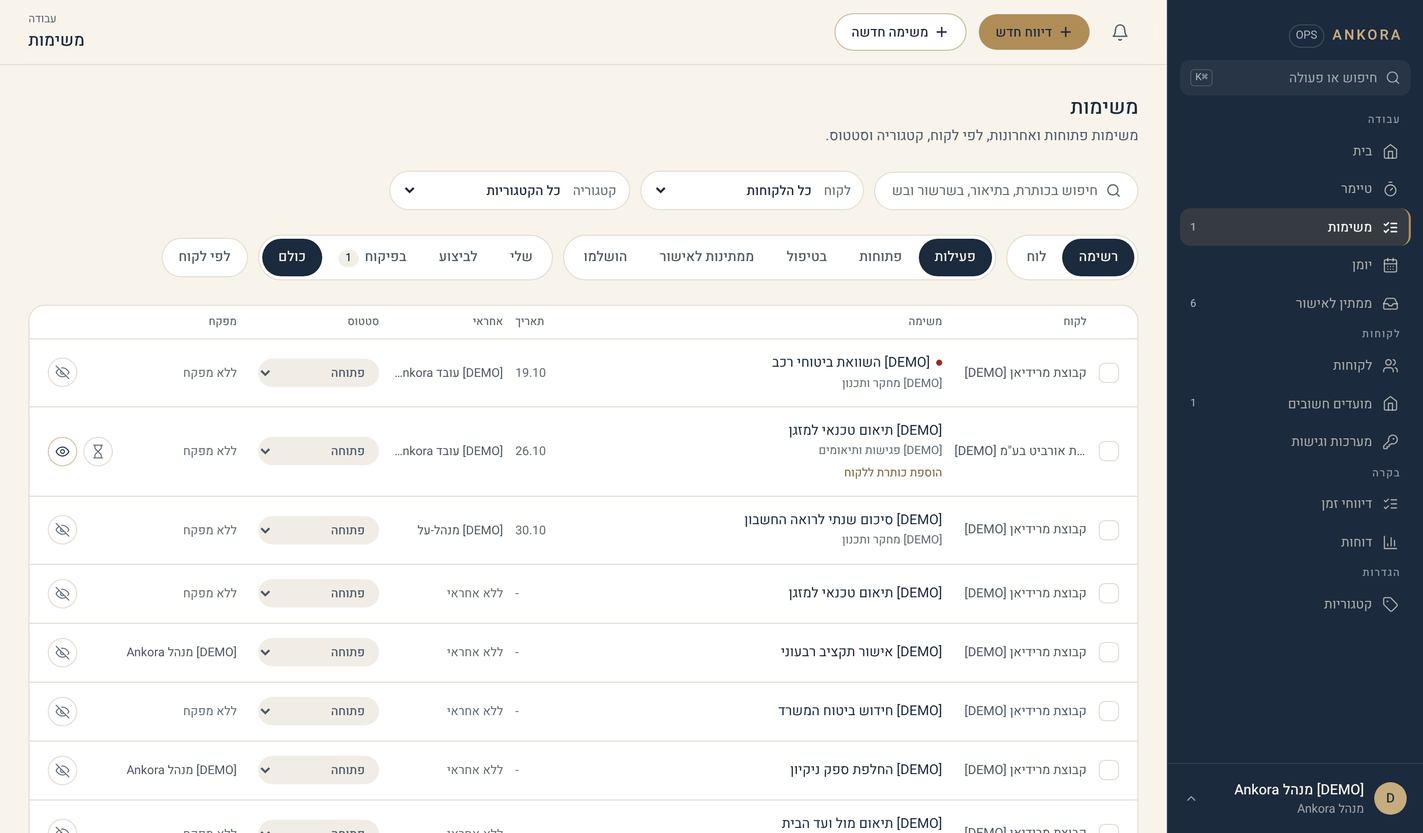
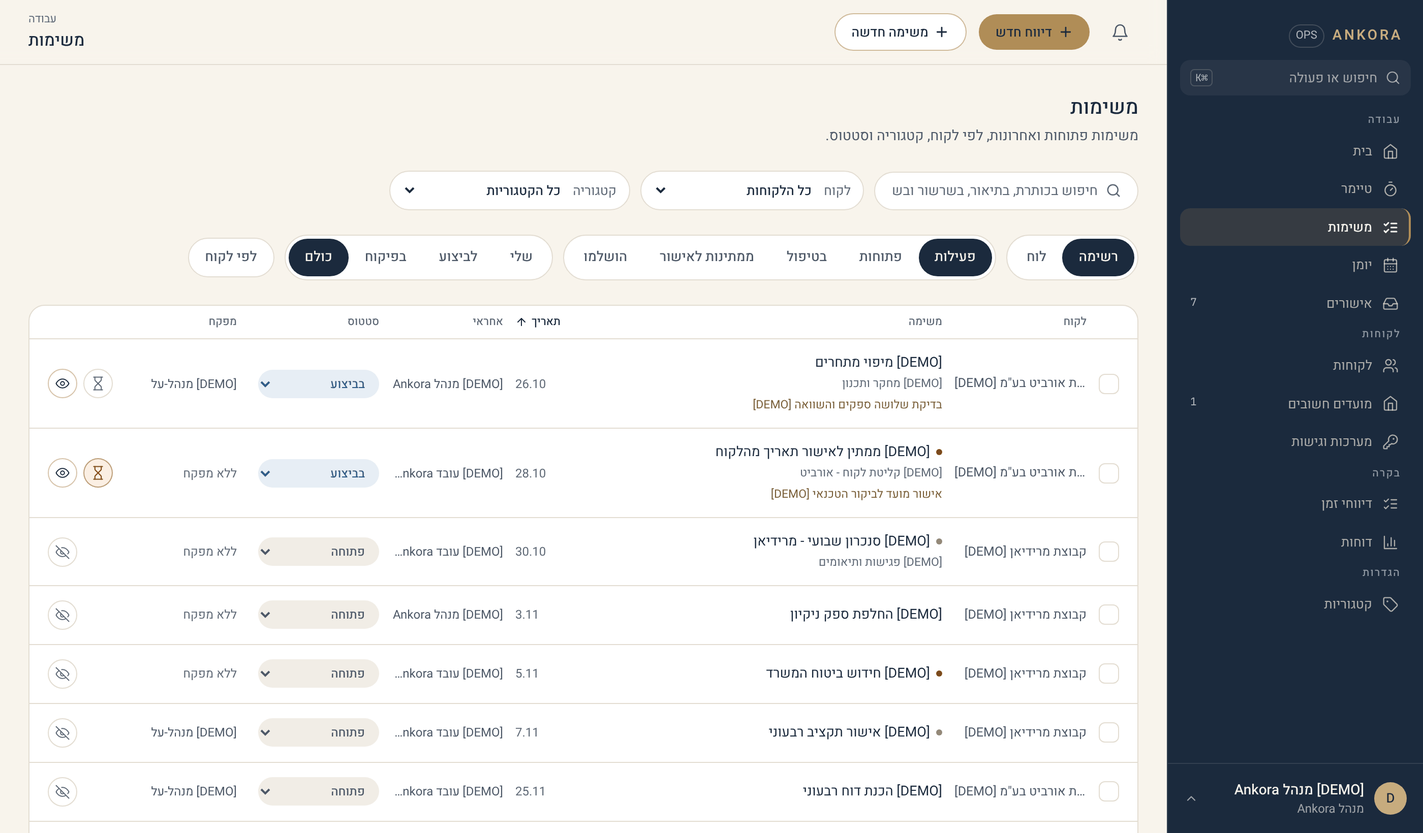
תיעוד: בדיקה שבועית 1.11 - מדריך, ERD ו-README
Claude-Session: https://claude.ai/code/session_015t38bRrRqjtbhz

diff --git a/app/(product)/app/(authenticated)/guide/content.ts b/app/(product)/app/(authenticated)/guide/content.ts
@@ -200,7 +200,7 @@ export const GUIDE_GROUPS: GuideGroup[] = [
         ],
         steps: [
           "לניווט בין שבועות: חצים בראש רצועת השבוע.",
-          "להזנה ידנית: מלאו את שורת הטופס (תאריך, מ־/עד, לקוח, קטגוריה, הערה) ולחצו \"הוספת דיווח\". ההערה חובה: מה נעשה עבור הלקוח, בכמה מילים. בתאריך שאינו היום ייפתח גם שדה סיבה - הוא חובה.",
+          "להזנה ידנית: מלאו את שורת הטופס (תאריך, \"משעה\", \"עד שעה\", לקוח, קטגוריה, הערה) ולחצו \"הוספת דיווח\". ההערה חובה: מה נעשה עבור הלקוח, בכמה מילים. בתאריך שאינו היום ייפתח גם שדה סיבה - הוא חובה.",
           "לעריכה: לחצו \"עריכה\" בשורת הדיווח, בתוך חלון 48 השעות.",
         ],
         images: [{ src: "/guide/my-time.png", alt: "מסך הזמן שלי עם רשימת דיווחים שבועית", caption: "מסך \"הזמן שלי\" - תצוגה שבועית" }],
@@ -215,6 +215,8 @@ export const GUIDE_GROUPS: GuideGroup[] = [
           "לכל משימה סטטוס אחד מתוך חמישה: פתוחה, בביצוע, ממתינה לאישור, הושלמה, או בארכיון. שינוי סטטוס הוא מיידי ואינו דורש שמירה נפרדת.",
           "בדף של משימה מופיע גם \"גישות למערכות של\" הלקוח, כשנשמרו לו גישות. צפייה בסיסמה משם נרשמת ביומן יחד עם המשימה, ולכן זו הדרך המועדפת לצפות בגישה כשעובדים על משימה.",
           "רואים ויוצרים משימות רק עבור הלקוחות שהוקצו לכם (אותה הרשאה בדיוק כמו בבחירת לקוח במסך הטיימר) - אלא אם יש לכם הרשאת ניהול לקוחות, ואז רואים את כולם.",
+          "בדף של משימה, לצד הטיימר, יש שני כפתורים: \"שיתוף\" ו\"דיווח ידני\". נפתח רק אחד מהם בכל פעם.",
+          "\"בלי AI\": לקוח שביקש ששום דבר שלו לא יעבור דרך AI מסומן \"בלי AI\" בהגדרות הלקוח, ואז כל המשימות, המסמכים והתיק שלו מטופלים בידי אדם בלבד. אפשר לסמן גם משימה בודדת, בתיבה \"בלי AI: המשימה מטופלת בידי אדם בלבד\" בדף המשימה. השלבים והמסמכים של משימה מסומנת יורשים את הסימון. במשימה כזו אין \"קדם עם קלוד\", והפרומפטים והכלים של Claude לא קוראים אותה. כל איש צוות יכול לסמן, ורק מנהל יכול להסיר סימון, כי הסרה היא הכיוון ששולח חומר ל-AI. סימון שמגיע מהלקוח או ממשימת האב מוצג כעובדה ואי אפשר להסיר אותו מהמשימה.",
         ],
         steps: [
           "ליצירת משימה: במחשב לחצו \"משימה חדשה\" בפס העליון (ליד \"דיווח חדש\"), מכל מסך. בטלפון לחצו \"משימה\" במסך המשימות. בחלונית שנפתחת בחרו לקוח (וקטגוריה, אופציונלי), אחראי ומפקח (אופציונלי), הזינו שם משימה ולחצו \"הוספת משימה\".",
@@ -224,6 +226,10 @@ export const GUIDE_GROUPS: GuideGroup[] = [
           "למעבר בין תצוגות: מתג \"רשימה\" / \"לוח\" בראש המסך. בלוח ארבע עמודות לפי סטטוס (פתוחות, בביצוע, ממתינות לאישור, הושלמו), וגרירת כרטיס בין עמודות משנה את הסטטוס.",
           "לקיבוץ ולחיפוש: מתג \"לפי לקוח\" מקבץ את הרשימה לפי לקוח. בשדה החיפוש מחפשים בכותרת, בתיאור, בשרשור ובשם הלקוח - מקלידים ולוחצים Enter. לצדו בוררי \"לקוח\" ו\"קטגוריה\".",
           "לשינוי סטטוס: בחרו סטטוס חדש מהתפריט הנפתח ליד המשימה - השינוי נשמר אוטומטית.",
+          "למיון: לחצו על שם עמודה בכותרת הרשימה (לקוח, משימה, תאריך, אחראי, סטטוס, מפקח). לחיצה ראשונה ממיינת בסדר עולה, שנייה בסדר יורד, ושלישית מחזירה לסדר ברירת המחדל. בטלפון, שבו אין כותרת, יש בורר \"מיון\". המיון נשמר בכתובת, ולכן החזרה ממשימה חוזרת לאותו סדר.",
+          "לשינוי תאריך יעד: לחצו על התאריך בשורת המשימה, או על \"הוספת תאריך יעד\" כשאין תאריך, ובחרו תאריך מהבורר. השינוי נשמר מיד, בלי לפתוח את המשימה.",
+          "לדיווח זמן שהטיימר פספס: בדף המשימה לחצו \"דיווח ידני\", מלאו תאריך, \"מ־\", \"עד\" והערה (ההערה מתחילה בשם המשימה), ולחצו \"שמירת דיווח\". הדיווח נרשם על לקוח המשימה ועליה.",
+          "לשליחת משימה לעמית: בדף המשימה לחצו \"שיתוף\", בחרו \"למי\" (או \"בלי נמען\"), הוסיפו הערה אם רוצים, ולחצו \"טיוטה ב-Gmail\" או \"וואטסאפ\". ההודעה כוללת שם משימה, לקוח, סטטוס, עדיפות, תאריך יעד וקישור. \"העתקת ההודעה\" מעתיקה אותה לכל מקום אחר.",
         ],
         images: [
           { src: "/guide/tasks.png", alt: "מסך המשימות עם לשוניות סטטוס", caption: "מסך \"משימות\"" },
@@ -257,6 +263,7 @@ export const GUIDE_GROUPS: GuideGroup[] = [
         notes: [
           "קלוד לא שולח כלום ללקוח או לספק. הוא מנסח, ואתם שולחים. סגירת משימה, דיווח זמן, שינוי אחראי או תאריך ופתיחת החלטה ללקוח נעשים רק אחרי שאישרתם בשיחה.",
           "התוכנית פנימית ולא מוצגת בפורטל הלקוח. הפרומט לא כולל סיסמאות מהכספת, כרטיסי אשראי או פרטי קשר של הלקוח.",
+          "משימה שמסומנת \"בלי AI\", או משימה של לקוח שמסומן כך, לא מקבלת את הכפתור: במקומו כתוב \"בלי AI: אין \"קדם עם קלוד\" במשימה הזו. היא מטופלת בידי אדם בלבד.\"",
           "אם מישהו שמר גרסה חדשה בזמן שעבדתם, השמירה לא דורסת אותה. קלוד יציג את ההבדל וישאל לפני שהוא שומר שוב.",
         ],
         images: [{ src: "/guide/advance-with-claude.png", alt: "אזור \"תוכנית עבודה\" בדף המשימה", caption: "אזור \"תוכנית עבודה\", עם הגרסה, מי אישר ומתי" }],
@@ -334,6 +341,7 @@ export const GUIDE_GROUPS: GuideGroup[] = [
           "שדה החיפוש שבראש המסך מסנן את הרשת תוך כדי הקלדה, בלי כפתור שליחה.",
           "בתחתית כל כרטיס יש קיצורי דרך לפי ההרשאות שלכם: \"בנק שעות\" (פתיחת המסך של אותו לקוח, למנהל-על) ו\"דוח פעילות\" (קפיצה לטאב תקציר הפעילות במסך הדוחות, עם הלקוח כבר מסונן). כפתור שלישי, \"תצוגת לקוח\", פותח את פורטל הלקוח בדיוק כפי שהלקוח רואה אותו - לקריאה בלבד, והכניסה נרשמת ביומן הפעולות.",
           "לחיצה על שם לקוח פותחת את דף הפרטים שלו, שם ניתן לערוך את הפרטים, לראות את הקטגוריות ואנשי הצוות המשויכים אליו, ולנהל את ההרשמה ללוחות חגים.",
+          "בעריכת הלקוח שני מתגים חדשים. \"בלי AI\": הלקוח ביקש ששום דבר שלו לא יעבור דרך מערכות AI, כלומר משימות, מסמכים ותיק הלקוח מטופלים בידי אדם בלבד. \"הפרדה באישור נהלים\": מי שכתב גרסה של נוהל לא מאשר אותה, גם כשהוא מנהל. מיועד ללקוח שהמבקר שלו דורש הפרדה, וכבוי כברירת מחדל.",
           "לקוח לא נמחק לצמיתות - רק מועבר לארכיון (soft delete), כדי לשמר את כל ההיסטוריה וה-audit trail שלו. בתחתית המסך נפתח אזור \"בארכיון (N)\" עם הלקוחות שהועברו לשם.",
         ],
         steps: [
@@ -402,6 +410,7 @@ export const GUIDE_GROUPS: GuideGroup[] = [
         description: [
           "במסך של לקוח יש שתי לשוניות. \"עבודה שוטפת\" נשארה כמו שהייתה: משימות, מסמכים, החלטות ומועדים. \"תיק הלקוח\" מחזיקה את מה שצריך לדעת כדי לעבוד איתו.",
           "בתיק: סקירה, רקע והתפקיד שלנו; ישויות משפטיות (למשל Inc ו-LTD); אנשים ויחסים; ספקים ונותני שירות; עובדות (תחום אחריות, העדפות, דרישות, כספים, מידע זמני, החלטות ושאלות פתוחות); סוגי פניות ודרכי מענה; מפת מערכות; ומרשם המקורות והדומיינים.",
+          "בצד התיק (ובטלפון, כשורת כפתורים מעליו) יש אינדקס חלקים: \"הכול\", \"סקירה וישויות\", \"אנשים וספקים\", \"עובדות ושאלות\", \"תהליכים ונהלים\", \"כללים\", \"סוגי פניות\", \"מערכות וגישות\" ו\"מקורות\". לחיצה על חלק מציגה אותו לבדו, ו\"הכול\" מציג את התיק הארוך כולו. ליד כל חלק מספר הפריטים בו. \"ממתין לאישור\" מופיע ראשון, עם מספר מודגש, רק כשמשהו מחכה, ונעלם כשאין. החלק האחרון שנפתח חוזר בביקור הבא, בדפדפן הזה.",
           "בראש הלשונית מופיע \"כפילויות אפשריות (N)\": אנשי קשר, ארגונים, מערכות, ישויות ומועדים שנראה שנכנסו לתיק פעמיים בכתיב שונה. משלימים את אחד מהם ומסירים את השני.",
           "לכל פריט יש סטטוס: מאושר (הלקוח או ספק שלו אמר או הראה במפורש), לא ודאי, או חסר. פריט שאינו מאושר מציג גם מה יסגור אותו.",
           "לכל פריט יש מקור: קוד במרשם המקורות של הלקוח (S1, S2) ודקה בהקלטה כשיש. מקורות נרשמים פעם אחת, ב\"מרשם מקורות\", ואז מציינים אותם ליד כל פריט, למשל \"S1 08:13\".",
@@ -410,7 +419,7 @@ export const GUIDE_GROUPS: GuideGroup[] = [
           "אדם וארגון נשמרים פעם אחת לכל אנקורה. שותף כמו משרד רואי חשבון שעובד עם כמה לקוחות מופיע אצל כל אחד מהם עם הקשר משלו, ומה שכתוב עליו אצל לקוח אחד לא מוצג אצל לקוח אחר.",
         ],
         steps: [
-          "פותחים לקוח במסך \"לקוחות\" ועוברים ללשונית \"תיק הלקוח\".",
+          "פותחים לקוח במסך \"לקוחות\" ועוברים ללשונית \"תיק הלקוח\". באינדקס בוחרים חלק, או \"הכול\".",
           "קודם רושמים מקור: \"+ מקור\" במרשם המקורות, עם סוג (הקלטה, מסמך של הלקוח, משימה, נמסר בעל פה, מסמך של אנקורה, מייל) ושם.",
           "מוסיפים פריט עם הכפתור של הסעיף (\"+ איש קשר\", \"+ פריט\", \"+ מערכת\" וכו'), ומציינים את קוד המקור בשדה \"מקורות\".",
           "לשאלה פתוחה: \"+ פריט\" ובחירת \"שאלה פתוחה\". כשיש תשובה, \"תשובה\" עם המקור שלה. \"למשימה\" פותחת משימה למי שאחראי לברר.",
@@ -457,18 +466,21 @@ export const GUIDE_GROUPS: GuideGroup[] = [
         id: "client-processes",
         title: "תהליכים ונהלים",
         roles: ["SUPER_ADMIN", "ANKORA_ADMIN"],
-        summary: "מה חוזר אצל הלקוח, מי אחראי, מה מפעיל את זה, ואיך עושים את זה. נוהל רץ רק אחרי שמנהל אישר אותו.",
+        summary: "מה חוזר אצל הלקוח, מי אחראי, מה מפעיל את זה, ואיך עושים את זה. נוהל רץ רק אחרי שמנהל או מנהל התיק של הלקוח אישרו אותו.",
         description: [
           "\"תהליכים\" בלשונית תיק הלקוח. לכל תהליך קוד (P1, P2), טריגר, בעלים, ואיפה הוא עומד בחפיפה: אצל הלקוח, בחפיפה, אצלנו, או לא עובר אלינו.",
           "בראש כל כרטיס כתוב אם התהליך רץ. תהליך רץ כשיש לו אחראי, כתוב מה מפעיל אותו, יש לו נוהל מאושר, וכשהוא לפי מועד, יש לו מועד הבא. כשאחד מאלה חסר כתובה באדום הסיבה האחת, למשל \"לא ירוץ: אין נוהל מאושר\".",
           "התיעוד מוצג בנפרד ובשקט, \"תיעוד 4 מתוך 6\": SLA, מערכות, הרשאות, ספי אישור ומאשר, גורם חיצוני ונוהל חריגים. הוא לא עוצר ריצה. שדה שלא שייך לתהליך מסמנים \"לא רלוונטי\" בלחיצה (מנהל או הבעלים של התהליך), והוא יוצא מהספירה. \"(ביטול)\" ליד הסימון מחזיר אותו. מאשר שכתוב בשם מספיק לספי אישור ומאשר.",
           "מערכת או איש קשר מהתיק שמוזכרים בשלבים או בתיאור של התהליך ועוד לא מקושרים, מופיעים בכרטיס עם כפתור \"לקשר\". שום דבר לא מקושר לבד.",
+          "הנוהל המאושר מצויר בכרטיס כתרשים: פס של הימים שבהם משהו קורה, ומתחתיו עמודת שלבים לכל יום. בתהליך לפי מועד יום 0 הוא \"המועד\", עם התאריך. שלב שדורש אישור או שמגיע אחרי הזמן המוגדר מסומן. התרשים הוא ברירת המחדל. מתג \"טקסט\" לצד \"תרשים\" מחזיר את כל הכרטיסים לרשימה, והבחירה נשמרת בדפדפן.",
+          "עריכת התהליך וכתיבת הנוהל נפתחות בחלונית צד בחצי מסך. שדות העריכה מקובצים (\"מה ומתי\", \"מי\", \"זמנים ובקרה\", \"מערכות וגורמים\", \"מצב\", \"חריגים ומסמך הנוהל\"), ושדות פחות נפוצים מסתתרים מאחורי \"הצג עוד\", עם ספירה של מה שכבר מלא. ב\"עוד\" בכרטיס: השהיה, חידוש והסרה של התהליך.",
+          "\"מבחן הזר\" שואל אם מי שמעולם לא עשה את התהליך יכול להריץ אותו מחר. בכרטיס כתוב מצבו (\"מבחן הזר: עוד לא הורץ\", \"2 חוסמים, 5 שאלות פתוחות · 31.10\" או \"עבר\") והשאלות הפתוחות, כל אחת עם חומרה (חוסם, יאט, שיפור), השלב, ומי יודע (אצלנו או אצל הלקוח). \"מבחן הזר: העתקת הנחיה ל-Claude\" מעתיק הנחיה: Claude עובר על כל שלב מול התיק, המסמכים והלקחים, ורושם שאלות במקומות שבהם היה נתקע. מבחן חדש מחליף את השאלות שנשארו פתוחות. תשובה שנותנים ל-Claude נכנסת לתיק מיד כעובדה מאושרת, על שם מי שענה, בלי הצעה ובלי סבב אישור. תשובה שמשנה כלל: Claude שואל במפורש \"זה משנה את הכלל X מ-A ל-B. אתה מאשר?\", ורק על \"כן\", ממנהל או ממנהל התיק, הכלל מתעדכן ומאושר, והגרסה הקודמת נשמרת בהיסטוריה.",
           "בכל כרטיס תהליך יש שורה אחת \"הצעד הבא\": הדבר שעוצר הכי הרבה, מה מומלץ ולמה, וכפתור שעושה את זה. למשל: \"לקשר את המועד\" לתהליך לפי מועד בלי מועד הבא, או \"לסגור את שתיהן\" למשימות ישנות שהתהליך מכסה. מתחת, שאר הפערים כרשימה לסמן, לכל אחד הפעולה שלו. כשאין מה לסגור כתוב \"תקין\".",
           "הנוהל, הריצות, ההערות מריצות, המקורות וההיסטוריה נמצאים תחת \"פרטים\". הם סגורים, חוץ מכשטיוטת נוהל מחכה לאישור או כשהגעתם לתהליך מקישור.",
           "הנוהל נשמר בגרסאות. לכל שלב: מה עושים, איך (ידני, Claude מכין ואדם בודק, אוטומטי), כמה ימי עסקים מהמועד, מה השלב עושה (תשלום, חתימה, הודעה ללקוח), באילו מערכות, ומה נוצר בסופו.",
           "ריצה היא משימה: שם התהליך, השלבים של הנוהל המאושר כשלבי המשימה, כל אחד ביום העסקים שלו, והבעלים של התהליך כאחראי. בתיאור: הדגשים, מה חייב להיווצר, כללי הלקוח שחלים, חריגות מאושרות, פערים, ומה עושים כשמשהו חורג. מועד שמקושר לתהליך פותח ריצה מוקדם מספיק כדי שהשלב הראשון לא יאחר. תהליך מושהה לא פותח כלום, ושוטף לא נפתח כריצה.",
           "תהליך שוטף (איסוף חשבוניות, הנהלת חשבונות שוטפת) לא פותח משימות. הוא מופיע ב\"שגרה שוטפת\" במסך הבית של הבעלים (ושל המחליף, אם נקבע), ואפשר לקבוע לו בדיקה כל כמה ימים ומה בודקים. כשהבדיקה מגיעה הבעלים מקבל התראה. \"נבדק, הכול תקין\" נרשם בהיסטוריה של התהליך. \"נמצאה בעיה\" מחייב לכתוב מה נמצא, ופותח משימה להיום למי שבדק.",
-          "מנהל מאשר כל גרסה. לפני האישור רצות בדיקות: תשלום, חוזה, חתימה או אישור ספק חדש לא נעשים אוטומטית, וכש-Claude מכין אותם אדם מאשר. הודעה ללקוח לא נשלחת אוטומטית. שלב אוטומטי צריך לכתוב איך מוודאים שקרה. נוהל שמזיז כסף צריך שלב אישור כשללקוח יש כללי אישור. וסודות לא נכנסים לנוהל.",
+          "מנהל או מנהל התיק של הלקוח מאשרים כל גרסה. ללקוח שהוגדר אצלו \"הפרדה באישור נהלים\", מי שכתב את הגרסה לא מאשר אותה, גם כשהוא מנהל, ומישהו אחר מאשר. הבדיקות שלפני האישור לא תלויות במי מאשר. לפני האישור רצות בדיקות: תשלום, חוזה, חתימה או אישור ספק חדש לא נעשים אוטומטית, וכש-Claude מכין אותם אדם מאשר. הודעה ללקוח לא נשלחת אוטומטית. שלב אוטומטי צריך לכתוב איך מוודאים שקרה. נוהל שמזיז כסף צריך שלב אישור כשללקוח יש כללי אישור. וסודות לא נכנסים לנוהל.",
           "כללי הלקוח שמסומנים לבדיקה נבדקים מול כל שלב: סכום מעל הסף בלי אישור לפניו חוסם. שלב חובה שחסר, שלב שמגיע מאוחר מדי, הודעה בערוץ שהכלל לא מתיר, פעולה אסורה, או גורם חיצוני של ישות אחרת, מאושרים רק עם חריגה מאושרת לכלל. לשלב של תשלום אפשר לכתוב סכום מרבי ומטבע, ולשלב של הודעה ללקוח את הערוץ.",
           "הבדיקות רצות גם על הנוהל שכבר בתוקף. כשכלל של הלקוח נוסף, משתנה, מאושר או מבוטל, או כשחריגה מאושרת או נגמרת, כל הנהלים של הלקוח נבדקים מחדש. נוהל שכבר לא עומד בכללים מסומן \"דורש סקירה\", הבעלים מקבל התראה, ובכל ריצה פתוחה שלו נכתבת הערה עם מה שלא עומד. כשהכלל שחסם נעלם או מקבל חריגה, הסימון יורד לבד.",
           "סקירה תקופתית: \"סקירת הנוהל כל (ימים)\" בעריכת התהליך. כשהמועד מגיע, התהליך מסומן \"דורש סקירה\" והבעלים מקבל התראה. מנהל עובר על הנוהל ולוחץ \"סימון שנסקר\", או כותב גרסה חדשה. אישור גרסה חדשה גם הוא סקירה.",
@@ -482,7 +494,7 @@ export const GUIDE_GROUPS: GuideGroup[] = [
         steps: [
           "\"+ תהליך\", ממלאים מה שידוע. מה שלא ידוע נשאר ריק ומופיע כפער.",
           "\"כתיבת נוהל\": שלבים, דגשים ומה חייב להיווצר. נשמר כטיוטה.",
-          "מנהל לוחץ \"אישור הנוהל\". אם בדיקה נכשלת, היא כתובה על הטיוטה, ומתקנים לפני האישור.",
+          "מנהל או מנהל התיק של הלקוח לוחצים \"אישור הנוהל\". אם בדיקה נכשלת, היא כתובה על הטיוטה, ומתקנים לפני האישור.",
           "לתהליך לפי מועד: \"מועדים\" מקשר את המועדים של הלקוח שמפעילים אותו.",
           "תהליך שמופעל כשמשהו קורה או לפי בקשה: \"פתיחת ריצה\" ובוחרים את היום.",
           "תהליך שוטף: בעריכה ממלאים \"בדיקה כל (ימים)\" ו\"מה בודקים\". את הבדיקה רושמים ב\"רישום בדיקה\", מהכרטיס או מ\"שגרה שוטפת\" במסך הבית.",
@@ -497,9 +509,9 @@ export const GUIDE_GROUPS: GuideGroup[] = [
         id: "client-rules",
         title: "כללים של הלקוח",
         roles: ["SUPER_ADMIN", "ANKORA_ADMIN"],
-        summary: "מה מותר ומה אסור אצל הלקוח, מי מאשר, מה לא מספרים למי, ומה לא נכנס לתיק. כלל מחייב רק אחרי שמנהל אישר אותו.",
+        summary: "מה מותר ומה אסור אצל הלקוח, מי מאשר, מה לא מספרים למי, ומה לא נכנס לתיק. כלל מחייב רק אחרי שמנהל או מנהל התיק של הלקוח אישרו אותו.",
         description: [
-          "\"כללים של הלקוח\" בלשונית תיק הלקוח. כל מי שעובד על הלקוח יכול לכתוב כלל, עם מקור כמו כל פריט בתיק. כלל חדש הוא \"מוצע\" עד שמנהל מאשר אותו.",
+          "\"כללים של הלקוח\" בלשונית תיק הלקוח. כל מי שעובד על הלקוח יכול לכתוב כלל, עם מקור כמו כל פריט בתיק. כלל חדש הוא \"מוצע\" עד שמנהל או מנהל התיק של הלקוח מאשרים אותו. ביטול כלל נשאר בידי מנהל.",
           "כלל שמתיר משהו (סף, אישור) צריך כלל ביניים: מה עושים עד שהוא מאושר. למשל \"תוכנה עד 3,000$ בשנה מאושרת\", ועד האישור \"כל הוצאה עוברת לאורן\". כלל מגביל בלי כלל ביניים חל כפי שהוא כתוב, כבר מהרגע שנכתב.",
           "כללי טיפול במידע נשלחים לכל חילוץ, ידני ויומי, ו-Claude לא מציע מה שהם לא מתירים. כללי חשיפה מוצגים בראש מסך הלקוח, בשתי הלשוניות. כל הכללים מופיעים בתיק לקריאה ובתיק ש-Claude מקבל.",
           "כלל על שלבי עבודה נבדק מול הנהלים כשמסמנים \"לבדוק את הכלל מול הנהלים\" וממלאים מה בודקים: סכום ומטבע לסף, פעולות לאישור ולאיסור, ימי עסקים לתזמון, ערוצים לתקשורת, ניסוח לשלב חובה, וישויות להפרדה. בלי זה הכלל נקרא על ידי אנשים ועל ידי Claude בלבד, והמסך אומר זאת ליד הכלל.",
@@ -510,7 +522,7 @@ export const GUIDE_GROUPS: GuideGroup[] = [
         ],
         steps: [
           "\"+ כלל\", בוחרים סוג, כותבים את הכלל ואת המקור.",
-          "מנהל לוחץ \"אישור הכלל\". כלל שעדיין לא ודאי לא מאשרים: קודם מוודאים מול הלקוח.",
+          "מנהל או מנהל התיק של הלקוח לוחצים \"אישור הכלל\". כלל שעדיין לא ודאי לא מאשרים: קודם מוודאים מול הלקוח.",
           "כלל שכבר לא בתוקף מבטלים, עם סיבה בשורה אחת. הוא נשאר בהיסטוריה.",
         ],
         notes: [
@@ -846,6 +858,7 @@ export const GUIDE_GROUPS: GuideGroup[] = [
           "לחצו \"העתק ללוח\" והדביקו את הטקסט בשיחה עם ChatGPT/Claude, או \"הורדה כקובץ טקסט\" לשמירה מקומית.",
         ],
         notes: [
+          "לקוח שמסומן \"בלי AI\" לא מקבל תקציר: במקומו מוצגת הודעה. בלקוח אחר, דיווח שמשויך למשימה מסומנת \"בלי AI\" נשאר עם השעות, בלי ההערה, ושם המשימה מוחלף ב\"משימה בלי AI\".",
           "אין אפשרות לבחור \"כל הלקוחות\" בטאב הזה במכוון - תקציר שמערבב הערות פנימיות משני לקוחות שונים עלול להיות גם מבלבל ל-AI וגם בעייתי מבחינת חשיפת מידע בין לקוחות.",
         ],
       },
@@ -1094,6 +1107,7 @@ export const GUIDE_GROUPS: GuideGroup[] = [
         description: [
           "מסך זה מיועד לעדכון ההעדפות האישיות שלכם - לא של משתמשים אחרים, ולא של הגדרות מערכת. כל תפקיד, כולל לקוח, יכול לגשת אליו.",
           "\"התראות אישיות\": שני מתגים. \"מייל יומי בבוקר\" שולח לכם בבוקר את מה שעליכם היום, ו\"התראת מייל על טיימר שרץ זמן ארוך\" קובע אם תקבלו גם מייל (בנוסף להתראה בתוך המערכת) כשטיימר שלכם רץ יותר מ-8 שעות ברציפות. כיבוי המתג השני לא מבטל את ההתראה בתוך המערכת (מסך \"התראות שלי\") - רק את המייל הנוסף.",
+          "\"מספר וואטסאפ\" (לצוות Ankora בלבד): המספר שאליו נפתחת שיחת וואטסאפ כשעמית משתף איתכם משימה בכפתור \"שיתוף\". אפשר להשאיר ריק, ואז השיתוף אליכם אפשרי רק במייל.",
           "החלפת סיסמה דורשת הזנת הסיסמה הנוכחית לצורך אימות, בנוסף לסיסמה החדשה - בשונה מ\"שכחתי סיסמה\" (שאין בו סיסמה קודמת לאמת, כי המשתמש לא מחובר).",
           "\"Passkey (Touch ID)\": מופיע לכל התפקידים, אבל במשמעות שונה. לצוות Ankora זה האימות הדו-שלבי בכל כניסה, וגם האימות שנדרש לפני צפייה בסיסמה של לקוח במסך \"מערכות וגישות\". ללקוח זו שכבת הגנה אופציונלית לפורטל, שמפעילים בכרטיס עצמו ב\"הפעלת אימות דו-שלבי\". בשני המקרים: טביעת אצבע או זיהוי פנים במכשיר שלכם, והמפתח עצמו נשאר במכשיר ולא נשמר במערכת.",
           "מומלץ להחזיק יותר ממכשיר אחד, למשל מחשב וטלפון, כדי שאובדן של אחד לא ינעל את הכניסה. הכפתור הראשי בכרטיס הוא \"הפקת קוד למכשיר חדש\": מפיקים כאן קוד, ומקלידים אותו במכשיר החדש אחרי הסיסמה. אם איבדתם את כל המכשירים, מנהל-על יכול לאפס את ה-passkeys שלכם מדף המשתמש שלכם.",
@@ -1102,6 +1116,7 @@ export const GUIDE_GROUPS: GuideGroup[] = [
         steps: [
           "לעדכון שם התצוגה: ערכו את השדה \"שם לתצוגה\" ולחצו \"שמירה\".",
           "לעדכון אזור זמן: בחרו אזור זמן מהרשימה ולחצו \"שמירה\".",
+          "להוספת מספר וואטסאפ: הקלידו אותו בשדה \"מספר וואטסאפ\" ולחצו \"שמירה\". ההודעה \"המספר נשמר.\" מאשרת.",
           "לשינוי מיילים אישיים: לחצו על אחד משני המתגים בכרטיס \"התראות אישיות\" - השינוי נשמר מיידית, בלי כפתור שמירה נפרד.",
           "להחלפת סיסמה: מלאו סיסמה נוכחית, סיסמה חדשה ואימות סיסמה חדשה, ולחצו \"החלפת סיסמה\".",
           "להוספת ה-passkey הראשון: בכרטיס \"Passkey (Touch ID)\" לחצו \"הוספת passkey\", תנו שם למכשיר, הקלידו את הסיסמה שלכם לאנקורה, לחצו \"המשך ל-Touch ID\" ואשרו בטביעת אצבע. כשכבר יש passkey, אותו כפתור נקרא \"רישום מפתח נוסף בדפדפן או במכשיר הזה\".",

diff --git a/docs/erd.md b/docs/erd.md
@@ -75,6 +75,7 @@ erDiagram
         int tokenVersion
         int failedLoginAttempts
         datetime lockedUntil
+        string whatsappNumber "nullable, the number a task share opens a WhatsApp chat with, as typed on the profile screen"
         datetime deletedAt
     }
 
@@ -95,6 +96,8 @@ erDiagram
         string sourceKeywords "(list) words that name the client in a meeting title"
         string driveFolderId "nullable, the Drive folder its conversations are saved to"
         string conversationsDocId "nullable, the running conversations document"
+        bool aiExcluded "nothing of this client passes through AI: its tasks, documents and file"
+        bool procedureApprovalSeparation "whoever wrote a version of a procedure does not approve it, default false"
         datetime deletedAt
     }
 
@@ -141,6 +144,7 @@ erDiagram
         string source "local or external provider name"
         string externalRef "nullable"
         bool mappingTask "a handover mapping stage: what it learns goes to the client file before it closes"
+        bool aiExcluded "the client asked that this task stay away from AI; steps and documents inherit it"
         datetime deletedAt
     }
 
@@ -593,6 +597,7 @@ erDiagram
         string mimeType
         int sizeBytes "nullable"
         boolean clientVisible
+        boolean aiExcluded "this document stays away from AI, also when its task or client is excluded"
         string uploadedById FK "nullable"
         datetime createdAt
         datetime updatedAt
@@ -1042,6 +1047,7 @@ erDiagram
     Process ||--o{ ImportantDate : "has"
     Process ||--o{ ProcessCheck : "has"
     Process ||--o{ ProcessLesson : "has"
+    Process ||--o{ ProcessStrangerTest : "has"
     Process ||--o{ ProcessVersion : "has"
     Process ||--o{ RequestType : "has"
 
@@ -1214,6 +1220,37 @@ erDiagram
         datetime resolvedAt "nullable"
         string resolution "nullable"
     }
+
+    ProcessStrangerTest {
+        string id PK
+        string processId FK
+        string clientId
+        int version "nullable, the procedure version walked"
+        string summary "nullable"
+        string ranById "nullable"
+        string sourceCode "nullable, the source the answers are recorded under"
+        datetime createdAt
+    }
+
+    ProcessStrangerQuestion {
+        string id PK
+        string testId FK
+        string processId
+        string clientId
+        int step "nullable, 1-based, null for the process as a whole"
+        string severity "enum StrangerSeverity"
+        string askWho "enum StrangerAskWho"
+        string question
+        string status "enum StrangerQuestionStatus"
+        string answer "nullable"
+        string answeredById "nullable"
+        datetime answeredAt "nullable"
+        string factId "nullable, the fact the answer became"
+        string policyId "nullable, the rule the answer changed"
+        datetime createdAt
+    }
+
+    ProcessStrangerTest ||--o{ ProcessStrangerQuestion : "has"
 ```
 
 ### Internal suppliers: agreements
@@ -1300,6 +1337,9 @@ erDiagram
 | `SourceKind` | `TRANSCRIPT`, `CLIENT_DOCUMENT`, `TASK`, `PERSON`, `ANKORA_DOCUMENT`, `EMAIL` |
 | `SourceRestriction` | `NONE`, `TOPICS_ONLY` |
 | `SourceWeight` | `PRIMARY`, `SECONDARY` |
+| `StrangerAskWho` | `ANKORA`, `CLIENT` |
+| `StrangerQuestionStatus` | `OPEN`, `ANSWERED`, `NOT_RELEVANT`, `REPLACED` |
+| `StrangerSeverity` | `BLOCKER`, `SLOWS`, `IMPROVES` |
 | `SupplierExperience` | `GOOD`, `OK`, `AVOID` |
 | `SystemAccessStatus` | `HAS_ACCESS`, `PENDING`, `NO_ACCESS`, `NOT_NEEDED` |
 | `SystemPermission` | `NONE`, `VIEWER`, `USER`, `BILLING`, `ADMIN`, `OWNER` |

diff --git a/README.md b/README.md
@@ -264,7 +264,7 @@ existed.
 ### Claude Desktop (MCP)
 
 `/api/mcp` exposes the Time Tracking app to a staff member's Claude over
-the Model Context Protocol. 49 tools, by family:
+the Model Context Protocol. 51 tools, by family:
 
 | | |
 | --- | --- |
